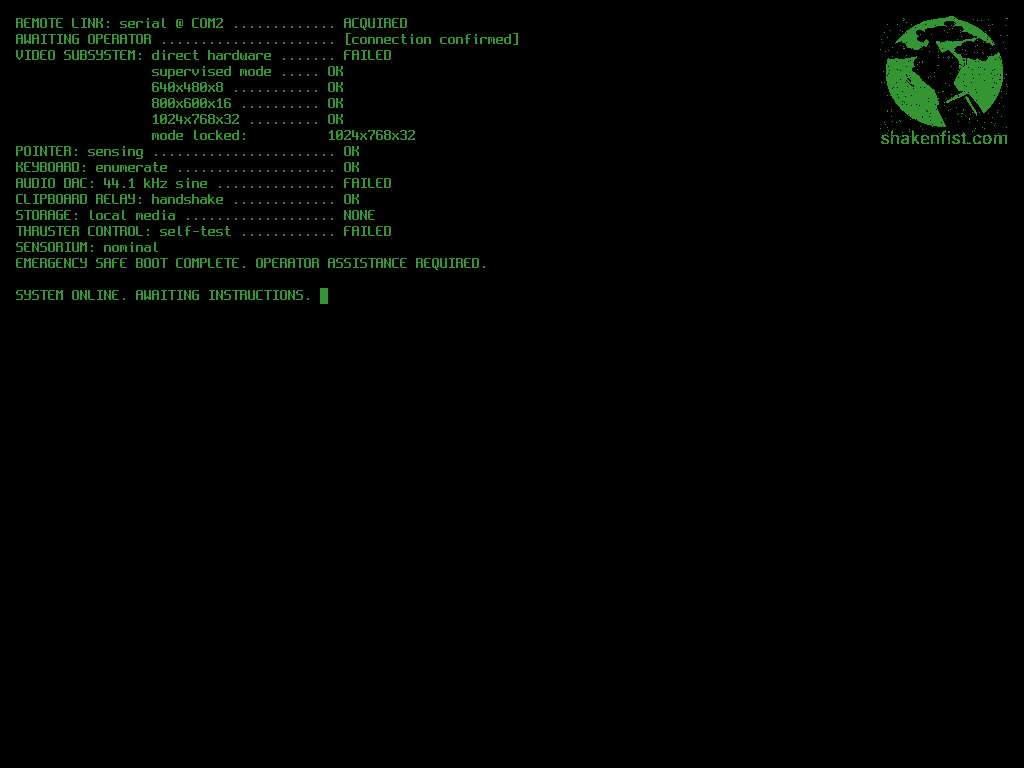
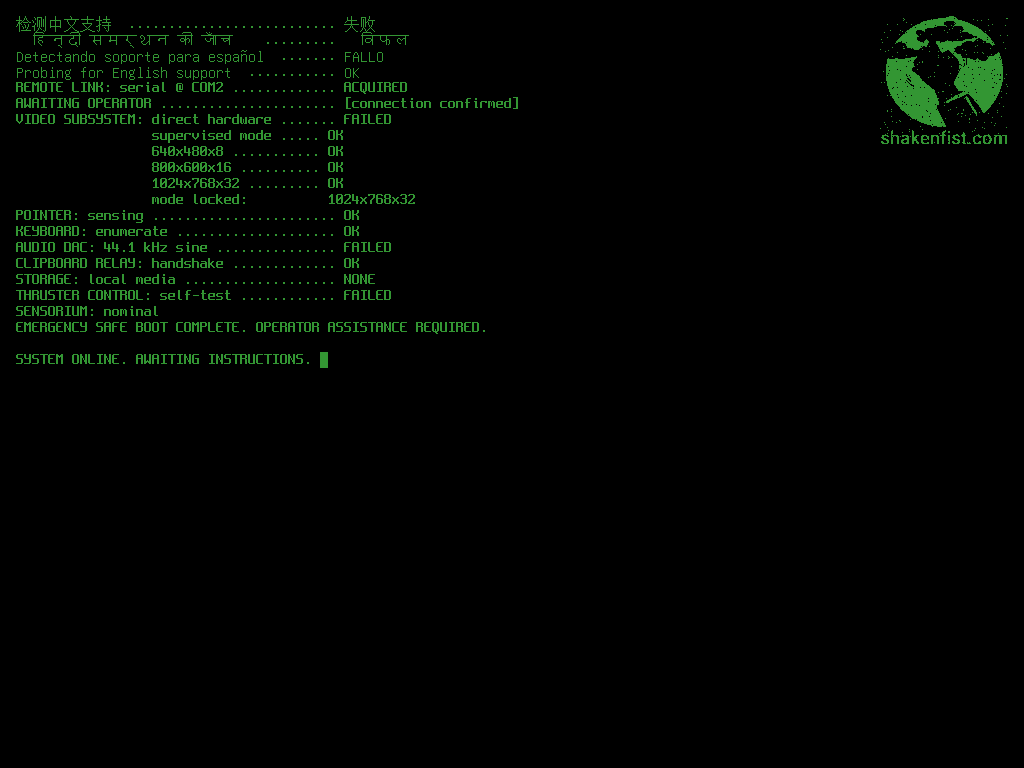
Document language-probe opening beats and regen screenshot.
README Status section gets a sentence on the new probe lines
and the worldbuilding intent. README Building section adds
make vendor-probes to the target list. ARCHITECTURE picks up
two paragraphs covering the renamed draw_text_bitmap and the
hybrid draw_probe_line layout, and explicitly lists the four
probe strings rendered. AGENTS gains src/probes.rs as a
where-to-read-first entry and lists make vendor-probes plus
its fonts-unifont apt prerequisite.

The plans index moves the language-probes plan to Complete
with the implementing commit SHAs (bb41e70 vendor + 288a839
wire-in). docs/images/boot-sequence.png is regenerated to
include the four new opening lines.

Prompt: Please commit and then implement. [language-probes
plan, Step 3]

Assisted-By: Claude Opus 4.7 (1M context, medium effort) <noreply@anthropic.com>

Changed region(s): [[0.0, 0.0, 0.5, 0.4688], [0.2188, 0.4375, 0.25, 0.4688]]

diff --git a/ARCHITECTURE.md b/ARCHITECTURE.md
@@ -75,9 +75,26 @@ The logo pipeline: `scripts/vendor-logo.py` rasterises
 `shakenfist-logo-small.svg` via ImageMagick at 300 DPI, resizes to
 128x128, thresholds at 50% grey, then flips 2% of pixels using a PRNG
 seeded to `0x5EAFED` for reproducibility, and emits `src/logo.rs` as
-a row-major packed-bit `[u8; 2048]` const. `Renderer::draw_logo` tiles
-this bitmap as an 8x16 glyph grid, using the same phosphor-green
-palette as body text.
+a row-major packed-bit `[u8; 2048]` const. The logo and the language
+probes (below) share `Renderer::draw_text_bitmap`, which tiles a
+packed 1-bit-per-pixel bitmap as an 8x16-cell grid (one
+`BltOp::BufferToVideo` per cell, principle 6) and accepts widths and
+heights that are not multiples of the cell size.
+
+The boot sequence opens with four language-probe lines —
+`检测中文支持 ........ 失败`, `हिन्दी समर्थन की जाँच ........ विफल`,
+`Detectando soporte para español ........ FALLO`, and
+`Probing for English support ........ OK` — establishing in
+worldbuilding terms that English is no longer the default.
+`scripts/vendor-language-probes.py` rasterises each label and status
+via ImageMagick + GNU Unifont (used under SIL OFL 1.1; see
+`LICENSES/FONT_UNIFONT.txt`) at pointsize 16, packs them as
+row-major MSB-leftmost bytes, and emits `src/probes.rs`.
+`SceneStep::Probe` carries references to the bitmap pairs;
+`Renderer::draw_probe_line` composes a hybrid layout — bitmap
+label at column 0, ASCII space + dot leader ending at
+`DOT_LEADER_COL = 40`, bitmap status starting at column 41 — so
+column alignment with the rest of the boot transcript is preserved.
 
 `MARGIN_X = MARGIN_Y = 16` overscan margins are applied as a
 renderer-level pixel offset added to every `draw_glyph` call, keeping

diff --git a/README.md b/README.md
@@ -16,8 +16,11 @@ The first-playable milestone has landed. The binary runs the full
 scene state machine — AWAITING OPERATOR screen, a scripted boot
 sequence, and a SYSTEM ONLINE parking screen — with blinking cursor,
 LFSR-driven glitch substitution, and the Shaken Fist logo rendered
-as a tiled 8x16 glyph grid in the top-right corner. On final
-shutdown, the event ring buffer is drained to the UEFI Serial
+as a tiled 8x16 glyph grid in the top-right corner. The opening
+beats now probe for Mandarin / Hindi / Spanish / English language
+support (three FAILED in their own scripts, English OK), establishing
+that English is no longer the default in the fictional universe. On
+final shutdown, the event ring buffer is drained to the UEFI Serial
 protocol as plain text, groundwork for the eventual gRPC-over-serial
 transport. See [DESIGN.md](DESIGN.md) for the channel mapping,
 two-channel test architecture, and aesthetic direction.
@@ -36,6 +39,7 @@ make qemu            # build, assemble ESP, launch interactive QEMU window
 make release         # produce dist/uncalibrated-sextant.{img,qcow2}
 make release-verify  # headless boot check of both release artifacts
 make screenshot      # regenerate docs/images/boot-sequence.png via QMP
+make vendor-probes   # regenerate src/probes.rs from the vendor script
 make build           # build the UEFI binary only (Docker, no host toolchain)
 make clean           # remove dist/, target/, and the named Docker volume
 ```

diff --git a/AGENTS.md b/AGENTS.md
@@ -28,6 +28,10 @@ tells us what it should be.
   through the boot sequence via QMP `send-key`, and capture the
   parking-screen frame to `docs/images/boot-sequence.png` via QMP
   `screendump`. Regenerate whenever the visible scene changes.
+- `make vendor-probes` — regenerate `src/probes.rs` from
+  `scripts/vendor-language-probes.py` after editing the PROBES
+  table at the top of that script. Apt prerequisite is
+  `fonts-unifont` (one-time install).
 - `make clean` — remove the named Docker volume
   (`uncalibrated-sextant-target`) and the local `target/` and `dist/`
   directories.
@@ -66,6 +70,9 @@ invokes directly.
    protocol and drops it
 9. `src/logo.rs` — 128x128 monochrome Shaken Fist logo bitmap,
    generated by `scripts/vendor-logo.py`
+10. `src/probes.rs` — language-probe label and status bitmaps for the
+    boot-sequence opening beats, generated by
+    `scripts/vendor-language-probes.py` from GNU Unifont
 
 ## Current phase
 

diff --git a/docs/plans/index.md b/docs/plans/index.md
@@ -19,4 +19,4 @@ repo root. For pre-push audits of our own work see `PUSH-TEMPLATE.md`.
 
 | Date | Plan | Intent | Status |
 |------|------|--------|--------|
-| 2026-04-25 | [Language probes](PLAN-language-probes.md) | Worldbuilding side quest: four boot-sequence lines in Mandarin / Hindi / Spanish / English establish that English is no longer the default in the fictional universe; introduces a generic text-bitmap renderer | Not started |
+| 2026-04-25 | [Language probes](PLAN-language-probes.md) | Worldbuilding side quest: four boot-sequence lines in Mandarin / Hindi / Spanish / English establish that English is no longer the default in the fictional universe; introduces a generic text-bitmap renderer | Complete (commits bb41e70, 288a839) |
